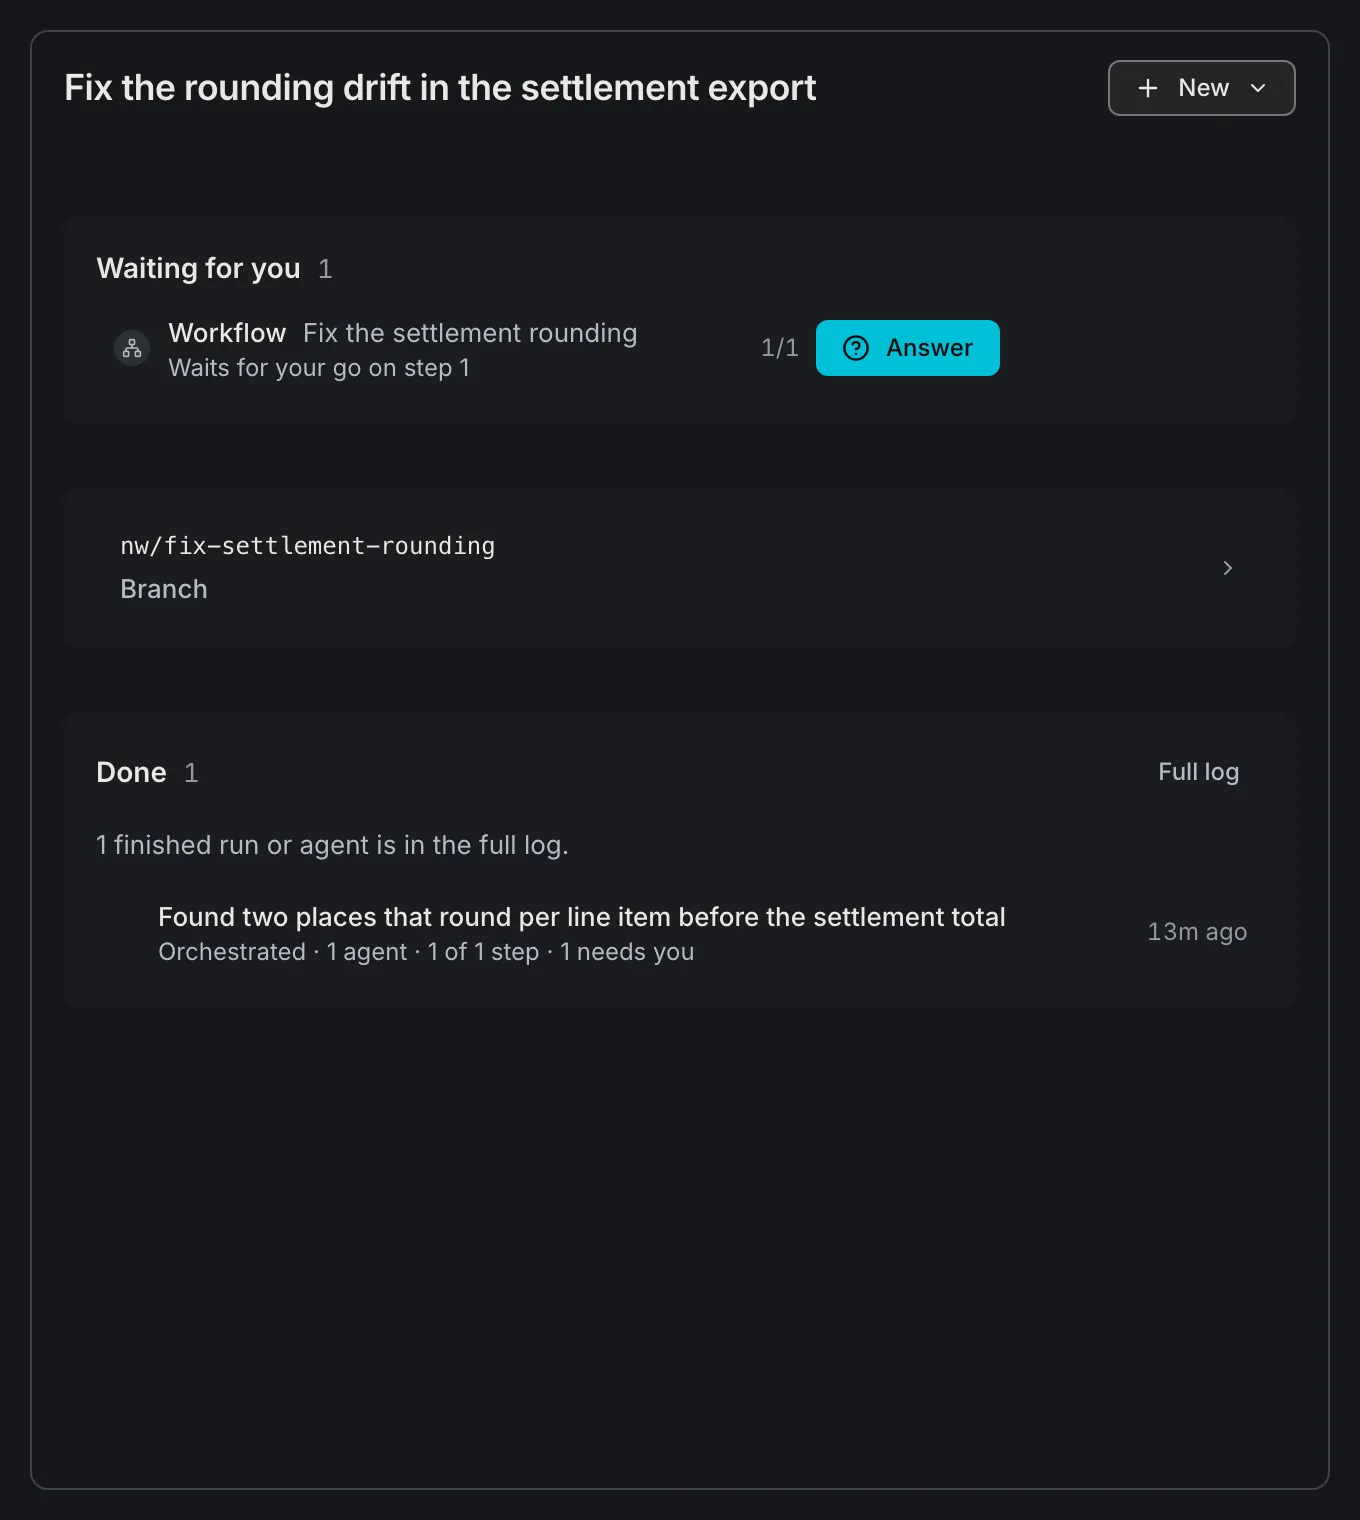
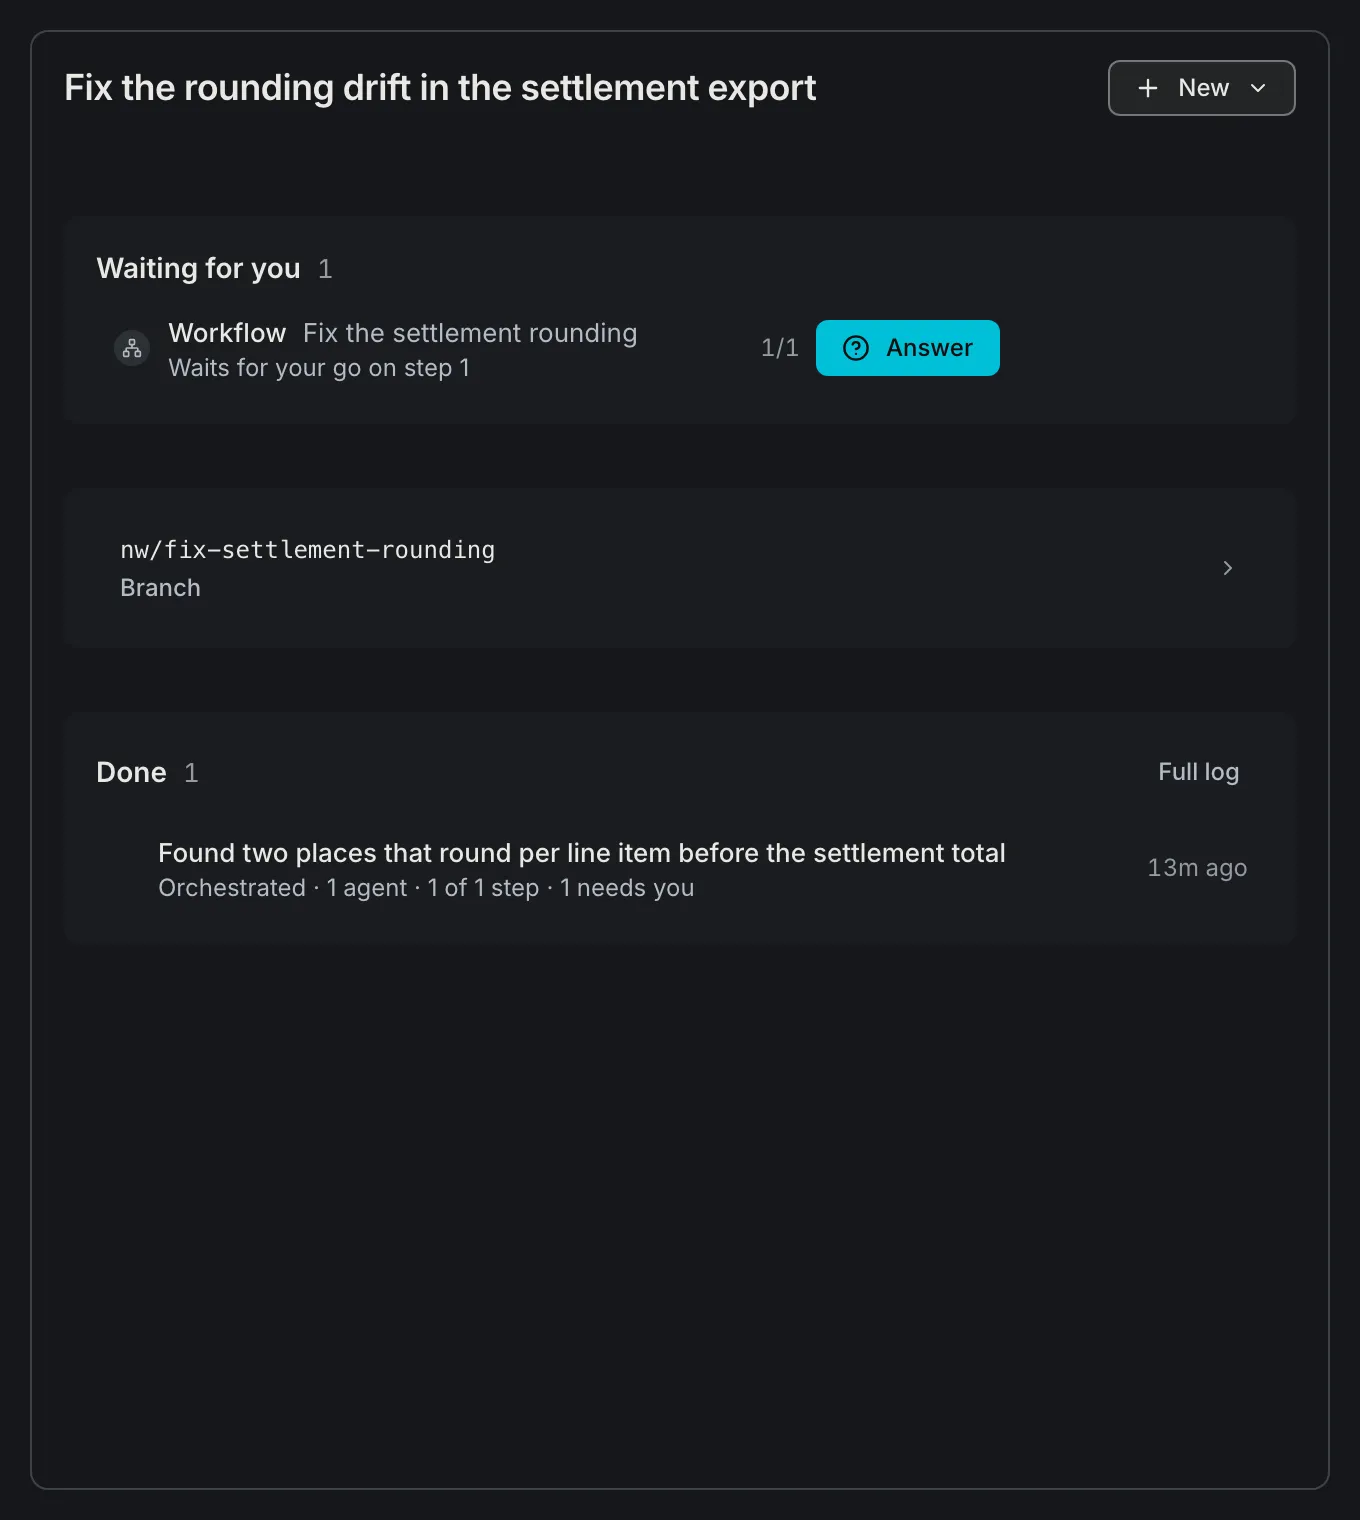
fix(desktop): fit the runs list, one done line, quiet branch label

Changed region(s): [[0.0926, 0.5566, 0.7412, 0.6493], [0.0926, 0.3401, 0.3706, 0.402], [0.8647, 0.5566, 0.9265, 0.6184]]

diff --git a/apps/desktop/src/features/session/components/SessionOverviewPane/columnKinds.test.tsx b/apps/desktop/src/features/session/components/SessionOverviewPane/columnKinds.test.tsx
@@ -124,7 +124,7 @@ const CASES: ReadonlyArray<Case> = [
     facts: {
       cards: ['running', 'next', 'branches', 'done'],
       primary: 'Answer',
-      done: '4 finished runs and agents are in the full log.',
+      done: null,
     },
   },
   {
@@ -132,7 +132,7 @@ const CASES: ReadonlyArray<Case> = [
     facts: {
       cards: ['new-since', 'next', 'branches', 'done'],
       primary: 'Mark ready',
-      done: '5 finished runs and agents are in the full log.',
+      done: null,
     },
   },
   {
@@ -140,7 +140,7 @@ const CASES: ReadonlyArray<Case> = [
     facts: {
       cards: ['needs-you', 'running', 'branches', 'done'],
       primary: 'Retry',
-      done: '3 finished runs and agents are in the full log.',
+      done: null,
     },
   },
   {
@@ -148,7 +148,7 @@ const CASES: ReadonlyArray<Case> = [
     facts: {
       cards: ['running', 'branches', 'done'],
       primary: null,
-      done: '4 finished runs and agents are in the full log.',
+      done: null,
     },
   },
   {
@@ -156,7 +156,7 @@ const CASES: ReadonlyArray<Case> = [
     facts: {
       cards: ['needs-you', 'running', 'branches', 'done'],
       primary: 'Review',
-      done: '3 finished runs and agents are in the full log.',
+      done: null,
     },
   },
   {
@@ -164,7 +164,7 @@ const CASES: ReadonlyArray<Case> = [
     facts: {
       cards: ['running', 'next', 'branches', 'done'],
       primary: 'Answer',
-      done: '4 finished runs and agents are in the full log.',
+      done: null,
     },
   },
 ];

diff --git a/packages/ui/src/components/ListGrid/ListGrid.tsx b/packages/ui/src/components/ListGrid/ListGrid.tsx
@@ -1,8 +1,9 @@
-import type { KeyboardEvent, ReactNode } from 'react';
+import { useMemo, useRef, type KeyboardEvent, type ReactNode } from 'react';
 import { cn } from '../../cn';
 import { ListGridColumnsContext } from './ListGridColumnsContext';
 import { listGridTemplate, type ListGridColumn } from './listGridTemplate';
 import { useFilledColumns } from './useFilledColumns';
+import { useGridWidth } from './useGridWidth';
 
 export type ListGridProps = {
   readonly label: string;
@@ -41,10 +42,26 @@ export const ListGrid = ({
   children,
   className,
 }: ListGridProps) => {
-  const value = useFilledColumns({ columns });
+  const filled = useFilledColumns({ columns });
+  const gridRef = useRef<HTMLUListElement>(null);
+  const isWatched = columns.some((column) => column.hideBelow !== undefined);
+  const width = useGridWidth({ ref: gridRef, isWatched });
+  const value = useMemo(() => {
+    const narrow = columns.filter(
+      (column) => column.hideBelow !== undefined && width > 0 && width < column.hideBelow,
+    );
+    if (narrow.length === 0) {
+      return filled;
+    }
+    return {
+      ...filled,
+      hiddenKeys: new Set([...filled.hiddenKeys, ...narrow.map((column) => column.key)]),
+    };
+  }, [columns, filled, width]);
   return (
     <ListGridColumnsContext.Provider value={value}>
       <ul
+        ref={gridRef}
         aria-label={label}
         data-list-grid=""
         onKeyDown={moveFocus}

diff --git a/packages/ui/src/__tests__/ListGrid.test.tsx b/packages/ui/src/__tests__/ListGrid.test.tsx
@@ -135,6 +135,26 @@ describe('ListGrid', () => {
     expect(list.querySelector('[data-list-grid-cell="title"]')?.className).toContain('col-start-2');
   });
 
+  it('drops a column whose hideBelow is wider than the list, so the rows fit', () => {
+    const rect = vi
+      .spyOn(HTMLElement.prototype, 'getBoundingClientRect')
+      .mockReturnValue(new DOMRect(0, 0, 616, 32));
+    const columns: ReadonlyArray<ListGridColumn> = [
+      { key: 'title', width: 'fill', isTitle: true },
+      { key: 'origin', width: 200, hideBelow: 1008 },
+      { key: 'time', width: 56, align: 'end' },
+    ];
+    render(
+      <ListGrid label="Runs" columns={columns}>
+        <ListGridRow cells={['Fix flaky tests', 'Workflow', '2m']} />
+      </ListGrid>,
+    );
+    const list = screen.getByRole('list', { name: 'Runs' });
+    expect(list.style.gridTemplateColumns).toBe('0px minmax(0,1fr) 56px 0px');
+    expect(list.querySelectorAll('[data-list-grid-cell="origin"]')).toHaveLength(0);
+    rect.mockRestore();
+  });
+
   it('lets a title cell take the empty cells after it when the column opts in', () => {
     const columns: ReadonlyArray<ListGridColumn> = [
       { key: 'title', width: 'fill', isTitle: true, canSpanEmpty: true },

diff --git a/apps/desktop/src/features/session/central/cards/doneSummaryOf.test.ts b/apps/desktop/src/features/session/central/cards/doneSummaryOf.test.ts
@@ -68,6 +68,7 @@ describe('doneSummaryOf', () => {
         entryOf({ branch: 'hl/feat-center-careers-page', state: 'closed' }),
       ],
       days: [DAY],
+      listedCount: 0,
     });
 
     expect(summary.count).toBe(5);
@@ -80,9 +81,23 @@ describe('doneSummaryOf', () => {
     const summary = doneSummaryOf({
       finished: [],
       days: [{ ...DAY, rows: [rowOf({ id: 'a' })] }],
+      listedCount: 0,
     });
 
     expect(summary).toEqual({ count: 1, line: '1 finished run or agent is in the full log.' });
-    expect(doneSummaryOf({ finished: [], days: [] })).toEqual({ count: 0, line: '' });
+    expect(doneSummaryOf({ finished: [], days: [], listedCount: 0 })).toEqual({
+      count: 0,
+      line: '',
+    });
+  });
+
+  it('leaves the full log sentence out while the rows show under it', () => {
+    const summary = doneSummaryOf({
+      finished: [entryOf({ branch: 'hl/feat-center-faq-page', state: 'merged' })],
+      days: [DAY],
+      listedCount: 2,
+    });
+
+    expect(summary).toEqual({ count: 3, line: '1 branch merged: hl/feat-center-faq-page.' });
   });
 });

diff --git a/apps/desktop/src/features/session/central/cards/doneSummaryOf.ts b/apps/desktop/src/features/session/central/cards/doneSummaryOf.ts
@@ -9,6 +9,7 @@ export type DoneSummary = Readonly<{
 type Params = {
   readonly finished: ReadonlyArray<BranchEntry>;
   readonly days: ReadonlyArray<DoneDay>;
+  readonly listedCount: number;
 };
 
 type ListParams = {
@@ -38,14 +39,14 @@ const workSentenceOf = ({ count }: WorkParams): string | null => {
     : `${count} finished runs and agents are in the full log.`;
 };
 
-export const doneSummaryOf = ({ finished, days }: Params): DoneSummary => {
+export const doneSummaryOf = ({ finished, days, listedCount }: Params): DoneSummary => {
   const merged = finished.filter((entry) => entry.story.state === 'merged');
   const closed = finished.filter((entry) => entry.story.state === 'closed');
   const workCount = days.reduce((total, day) => total + day.rows.length, 0);
   const line = [
     branchSentenceOf({ entries: merged, word: 'merged' }),
     branchSentenceOf({ entries: closed, word: 'closed' }),
-    workSentenceOf({ count: workCount }),
+    listedCount > 0 ? null : workSentenceOf({ count: workCount }),
   ]
     .filter((part) => part !== null)
     .join(' ');

diff --git a/apps/desktop/src/features/session/components/SessionOverviewPane/CentralColumn.tsx b/apps/desktop/src/features/session/components/SessionOverviewPane/CentralColumn.tsx
@@ -92,14 +92,14 @@ export const CentralColumn = ({ session, onLeadChange }: Props) => {
     [detailByMountId, facts],
   );
   const liveEntries = branches.live;
-  const summary = useMemo(
-    () => doneSummaryOf({ finished: branches.finished, days }),
-    [branches.finished, days],
-  );
   const unreadAgents = useAppStore(
     useShallow((state) => unreadAgentsOf({ agents: state.sessionPhaseRuns[sessionId] })),
   );
   const latest = useMemo(() => latestDoneOf({ days, unreadAgents }), [days, unreadAgents]);
+  const summary = useMemo(
+    () => doneSummaryOf({ finished: branches.finished, days, listedCount: latest.items.length }),
+    [branches.finished, days, latest.items.length],
+  );
   const branchLabelOf = useBranchLabels({ sessionId });
   const branchNameOf = useBranchNames({ sessionId });
   const whereOf = useWhereOf({ sessionId });

diff --git a/packages/ui/src/components/ListGrid/useGridWidth/index.ts b/packages/ui/src/components/ListGrid/useGridWidth/index.ts
@@ -1,0 +1,25 @@
+import { useLayoutEffect, useState, type RefObject } from 'react';
+
+type Params = {
+  readonly ref: RefObject<HTMLElement | null>;
+  readonly isWatched: boolean;
+};
+
+export const useGridWidth = ({ ref, isWatched }: Params): number => {
+  const [width, setWidth] = useState(0);
+  useLayoutEffect(() => {
+    const element = ref.current;
+    if (element === null || !isWatched) {
+      return undefined;
+    }
+    const measure = () => setWidth(Math.round(element.getBoundingClientRect().width));
+    measure();
+    if (typeof ResizeObserver === 'undefined') {
+      return undefined;
+    }
+    const observer = new ResizeObserver(measure);
+    observer.observe(element);
+    return () => observer.disconnect();
+  }, [ref, isWatched]);
+  return width;
+};

diff --git a/apps/desktop/src/features/session/components/SessionWorkspace/parts/RunsGrid/runsGridColumns.ts b/apps/desktop/src/features/session/components/SessionWorkspace/parts/RunsGrid/runsGridColumns.ts
@@ -4,8 +4,8 @@ export const RUNS_GRID_COLUMNS = [
   { key: 'state', width: 16 },
   { key: 'shape', width: 16 },
   { key: 'title', width: 'fill', isTitle: true },
-  { key: 'origin', width: 200, tone: 'secondary', shouldHideWhenEmpty: true },
-  { key: 'model', width: 152, tone: 'secondary', shouldHideWhenEmpty: true },
+  { key: 'origin', width: 200, tone: 'secondary', shouldHideWhenEmpty: true, hideBelow: 1008 },
+  { key: 'model', width: 152, tone: 'secondary', shouldHideWhenEmpty: true, hideBelow: 796 },
   { key: 'word', width: 112, tone: 'secondary' },
   { key: 'progress', width: 88, align: 'end', tone: 'hint' },
   { key: 'cost', width: 56, align: 'end', isNumeric: true },

diff --git a/apps/desktop/src/features/session/central/cards/DoneCard/index.tsx b/apps/desktop/src/features/session/central/cards/DoneCard/index.tsx
@@ -43,9 +43,11 @@ export const DoneCard = ({ sessionId, card, summary, latest, entries }: Props) =
         </Button>
       }
     >
-      <p data-done-line="" className="min-w-0 text-ui text-muted-foreground">
-        {summary.line}
-      </p>
+      {summary.line === '' ? null : (
+        <p data-done-line="" className="min-w-0 text-ui text-muted-foreground">
+          {summary.line}
+        </p>
+      )}
       {latest.items.length === 0 ? null : (
         <ul aria-label="Latest finished" className="flex min-w-0 list-none flex-col gap-1">
           {latest.items.map((item) => {

diff --git a/apps/desktop/src/features/session/central/cards/DoneCard/index.test.tsx b/apps/desktop/src/features/session/central/cards/DoneCard/index.test.tsx
@@ -149,9 +149,7 @@ describe('the Done card lists what finished last', () => {
     ]);
     expect(rows[0]?.textContent).toContain('CI debugger');
     expect(rows[0]?.textContent).toContain('2m ago');
-    expect(doneCard().querySelector('[data-done-line]')?.textContent).toBe(
-      '5 finished runs and agents are in the full log.',
-    );
+    expect(doneCard().querySelector('[data-done-line]')).toBeNull();
   });
 
   it('marks an unread reply with a dot and counts it in the header: Done 5, 2 unread', async () => {

diff --git a/apps/desktop/src/features/session/central/branches/BranchRow.tsx b/apps/desktop/src/features/session/central/branches/BranchRow.tsx
@@ -53,7 +53,7 @@ export const BranchRow = ({ sessionId, entry, isProjectShown, isNarrow = false }
     <Tooltip key="branch" content={fact.branch}>
       <span className="flex min-w-0 flex-col gap-0.5">
         {branchLine}
-        <span className="flex min-w-0 items-baseline gap-2 text-ui">
+        <span data-branch-meta="" className="flex min-w-0 items-baseline gap-2 text-meta">
           {request === '' ? null : (
             <span className="shrink-0 text-faint-foreground">{request}</span>
           )}

diff --git a/apps/desktop/src/features/session/central/parityList.test.tsx b/apps/desktop/src/features/session/central/parityList.test.tsx
@@ -201,9 +201,7 @@ describe('the parity list of the Overview, walked on the cards', () => {
     await show({ kind: 'finished' });
 
     const done = cardOf({ name: 'Done' });
-    expect(done.querySelector('[data-done-line]')?.textContent).toBe(
-      '5 finished runs and agents are in the full log.',
-    );
+    expect(done.querySelector('[data-done-line]')).toBeNull();
     within(done).getByRole('button', { name: 'Full log' });
   });
 
